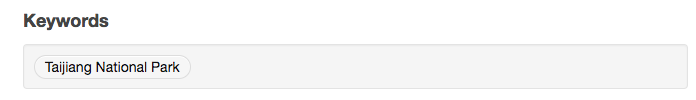
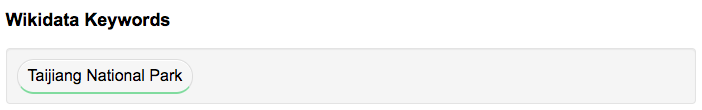
Rename "Keywords" to "Wikidata Keywords"

diff --git a/ckanext/wikidatakeyword/templates/wikidatakeyword/snippets/wikidatakeyword_list.html b/ckanext/wikidatakeyword/templates/wikidatakeyword/snippets/wikidatakeyword_list.html
@@ -9,7 +9,7 @@ keywords - the list of keywords to render
 {% import 'macros/form.html' as form %}
 
 {% if keywords %}
-  <h3>{{ _('Keywords') }}</h3>
+  <h3>{{ _('Wikidata Keywords') }}</h3>
   <section class="tags">
     <div id="wikidata_labels" {{ form.attributes({"data-module": "show-wikidata"}) }}>
       <ul class="tag-list well">

diff --git a/ckanext/wikidatakeyword/plugin.py b/ckanext/wikidatakeyword/plugin.py
@@ -49,6 +49,6 @@ class WikidatakeywordPlugin(plugins.SingletonPlugin, DefaultTranslation):
 
 
 def _add_facets(facets_dict):
-    facets_dict['keywords_facet'] = plugins.toolkit._('Keywords')
+    facets_dict['keywords_facet'] = plugins.toolkit._('Wikidata Keywords')
 
     return facets_dict

diff --git a/README.rst b/README.rst
@@ -4,7 +4,7 @@ ckanext-wikidatakeyword
 
 This extension adds Wikidata-powered keyword field in CKAN datasets.
 
-This new extra field "keywords" will appear in the
+This new extra field "Wikidata Keywords" will appear in the
 dataset form by the `form snippet`_.
 
 .. image:: docs/keywords-form.png
@@ -55,7 +55,7 @@ To install ckanext-wikidatakeyword:
 
     {
       "field_name": "keywords",
-      "label": "Keywords",
+      "label": "Wikidata Keywords",
       "preset": "wikidata_keyword"
     }
 
